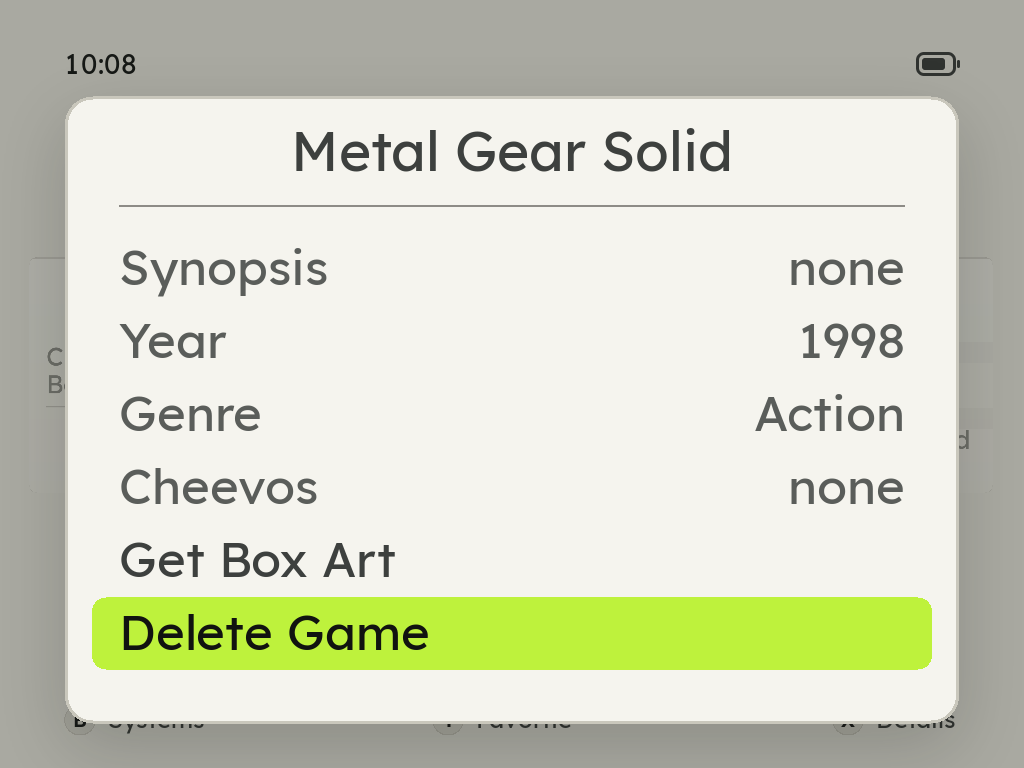
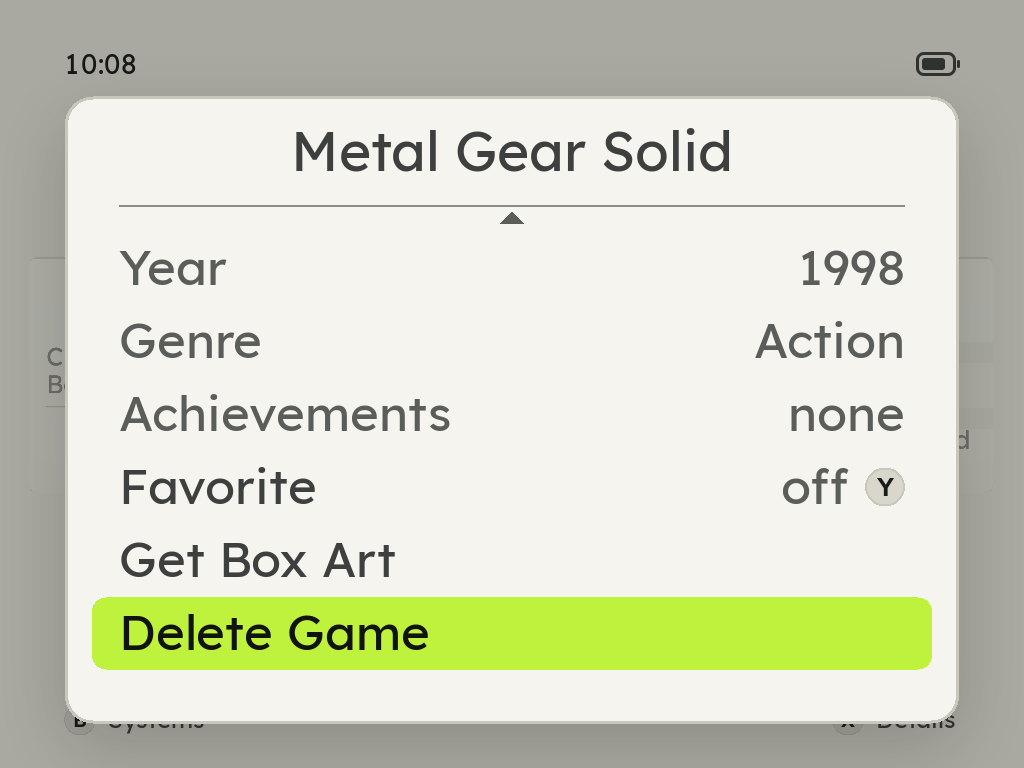
Details page: Favorite shows Y's glyph after On or Off, as Quit shows X's

diff --git a/src/main.c b/src/main.c
@@ -4584,6 +4584,8 @@ static int menu_pad(void)   { return menu_row_h() * 3 / 4; }
 /* X's glyph at a row's right (MENU_KEY_X): the keyboard's action keys' 40,
  * DESIGN.md 11.9, which sits in a menu row as a hint's sits in its legend */
 #define MENU_KEY_SIZE 40
+/* Between On/Off and Y's glyph after it (MENU_KEY_Y_ON, MENU_KEY_Y_OFF) */
+#define MENU_KEY_GAP 16
 
 /* What a row's value takes at the right of the rows, for the measures:
  * its text, a tick (MENU_TICK) or X's glyph (MENU_KEY_X) */
@@ -4591,6 +4593,9 @@ static int menu_value_w(TTF_Font *fm, const char *v)
 {
 	if (v == MENU_TICK) return ui_cap_height(fm) * 6 / 5;
 	if (v == MENU_KEY_X) return ui_button_width("X", MENU_KEY_SIZE);
+	if (v == MENU_KEY_Y_ON || v == MENU_KEY_Y_OFF)
+		return ui_text_width(fm, T(v == MENU_KEY_Y_ON ? S_MENU_ON : S_MENU_OFF)) + MENU_KEY_GAP
+		       + ui_button_width("Y", MENU_KEY_SIZE);
 	return v ? ui_text_width(fm, v) : 0;
 }
 
@@ -5476,7 +5481,18 @@ static void menu_panel(app *a, const char *heading, const menu_row *rows,
 			/* X's glyph where the value goes, on the fill as a selected
 			 * key's (UI_BUTTON_ON_ACCENT) once the plate is mostly there,
 			 * and the label given what is left */
-			if (rows[i].value == MENU_KEY_X) {
+			if (rows[i].value == MENU_KEY_Y_ON || rows[i].value == MENU_KEY_Y_OFF) {
+				/* Y's glyph at the right, as X's is, and the state before it */
+				int bw = ui_button_width("Y", MENU_KEY_SIZE);
+
+				ui_button(a->r, "Y", content_x + content_w - bw / 2,
+				          y + ROW_H(rows[i]) / 2, MENU_KEY_SIZE,
+				          sel_w >= 0.5f ? UI_BUTTON_ON_ACCENT : UI_BUTTON_PLAIN);
+				ui_text(a->r, fm, T(rows[i].value == MENU_KEY_Y_ON ? S_MENU_ON : S_MENU_OFF),
+				        content_x + content_w - bw - MENU_KEY_GAP, ty, 1, vc);
+				ui_fit_text(fm, rows[i].label, lbl, sizeof lbl, content_w - vw - gap);
+				ui_text(a->r, fm, lbl, content_x, ty, -1, lc);
+			} else if (rows[i].value == MENU_KEY_X) {
 				ui_button(a->r, "X", content_x + content_w - vw / 2,
 				          y + ROW_H(rows[i]) / 2, MENU_KEY_SIZE,
 				          sel_w >= 0.5f ? UI_BUTTON_ON_ACCENT : UI_BUTTON_PLAIN);

diff --git a/src/menu.h b/src/menu.h
@@ -27,6 +27,12 @@ extern const char MENU_TICK[];
  * Quit (11.28). Known by its address, as MENU_TICK is. */
 extern const char MENU_KEY_X[];
 
+/* Y's glyph at a row's right with On or Off before it: a setting Y toggles
+ * from anywhere on its page, its state still read (the details page's
+ * Favorite, 2026-11-09). Known by their addresses, as MENU_KEY_X is. */
+extern const char MENU_KEY_Y_ON[];
+extern const char MENU_KEY_Y_OFF[];
+
 /* How a row answers left, right and A (DESIGN.md 9). The menu runner plays
  * the sound on the press, before the screen's handler: a handler may take a
  * while - the in-game menu's Display waits up to 150 ms on Diatom's new

diff --git a/tools/menu-check.c b/tools/menu-check.c
@@ -1359,8 +1359,8 @@ static void info_rows(void)
 		fg.favorite = true;
 		fn = gi_rows(fr, &fg, true);
 		for (j = 0; j < fn; j++) if (!strcmp(fr[j].label, "Favorite")) at = j;
-		ck(fn == GI_MAX && at >= 0 && fr[at].live && !strcmp(val(&fr[at]), "on"),
-		   "a game that can be a favorite has the Favorite row, live, saying on");
+		ck(fn == GI_MAX && at >= 0 && fr[at].live && fr[at].value == MENU_KEY_Y_ON,
+		   "a game that can be a favorite has the Favorite row, live, with Y's glyph and On");
 	}
 	ck(!strcmp(rows[0].label, "Synopsis"), "what the game IS leads");
 	ck(rows[0].live, "and opens, because the prose does not fit on a row");

diff --git a/src/game_menu.c b/src/game_menu.c
@@ -50,7 +50,7 @@ int gi_rows(menu_row *out, const game_info *gi, bool net)
 	/* Favorite is back here, on 2026-11-08: Y on the shelf now starts a game
 	 * fresh, so marking one moved to this page, Y on it or A on the row */
 	if (gi->can_favorite)
-		out[n++] = (menu_row){ T(S_CONTROLS_FAVORITE), T(gi->favorite ? S_MENU_ON : S_MENU_OFF), true };
+		out[n++] = (menu_row){ T(S_CONTROLS_FAVORITE), gi->favorite ? MENU_KEY_Y_ON : MENU_KEY_Y_OFF, true };
 	/* WHAT THIS SCREEN NO LONGER SAYS, and why, because each was removed on a
 	 * reason rather than to make the list shorter:
 	 *

diff --git a/src/menusnap.c b/src/menusnap.c
@@ -11,7 +11,7 @@ static const char *keep(menu_snap *s, const char *t)
 	char *d;
 
 	if (!t || t == MENU_NOTE_MARK || t == MENU_BODY_MARK || t == MENU_HR_MARK || t == MENU_TICK ||
-	    t == MENU_KEY_X)
+	    t == MENU_KEY_X || t == MENU_KEY_Y_ON || t == MENU_KEY_Y_OFF)
 		return t;
 	len = strlen(t) + 1;
 	if (len > sizeof s->text - s->used) { s->ok = false; return NULL; }

diff --git a/src/menu.c b/src/menu.c
@@ -4,6 +4,8 @@
 
 const char MENU_TICK[] = "";
 const char MENU_KEY_X[] = "";
+const char MENU_KEY_Y_ON[] = "";
+const char MENU_KEY_Y_OFF[] = "";
 
 int menu_step_sel(const menu_row *rows, int n, int sel, int dir)
 {
